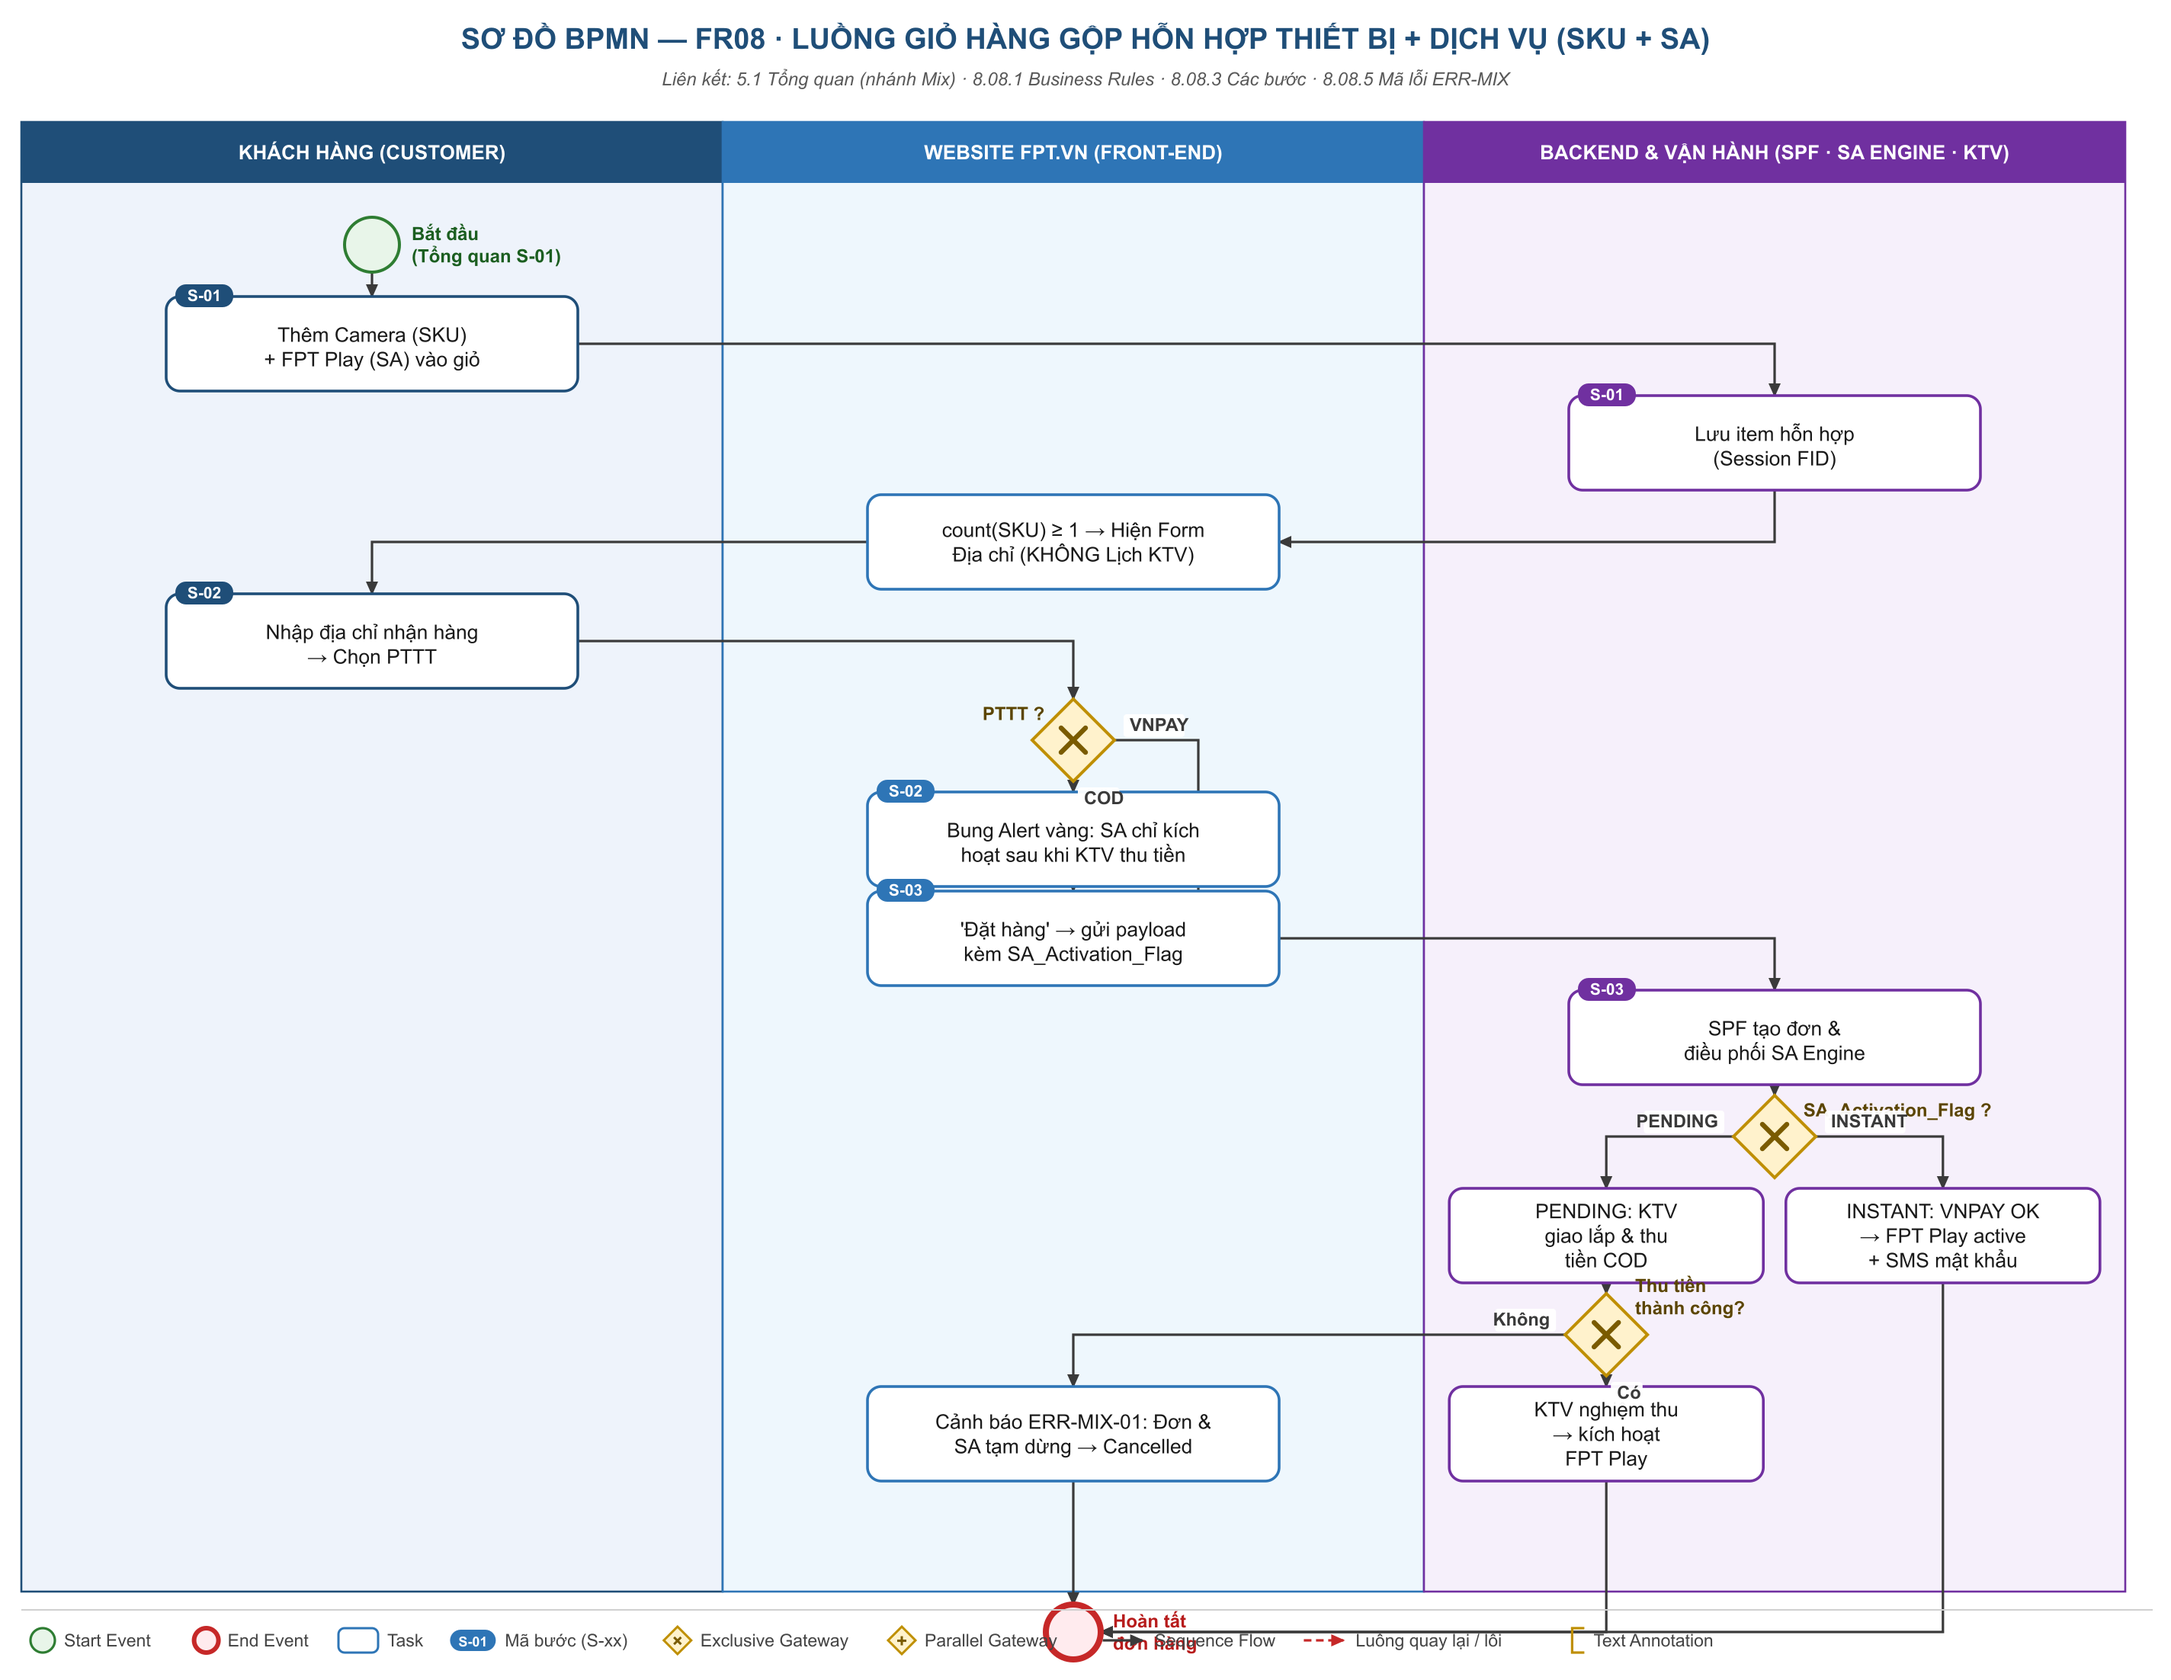
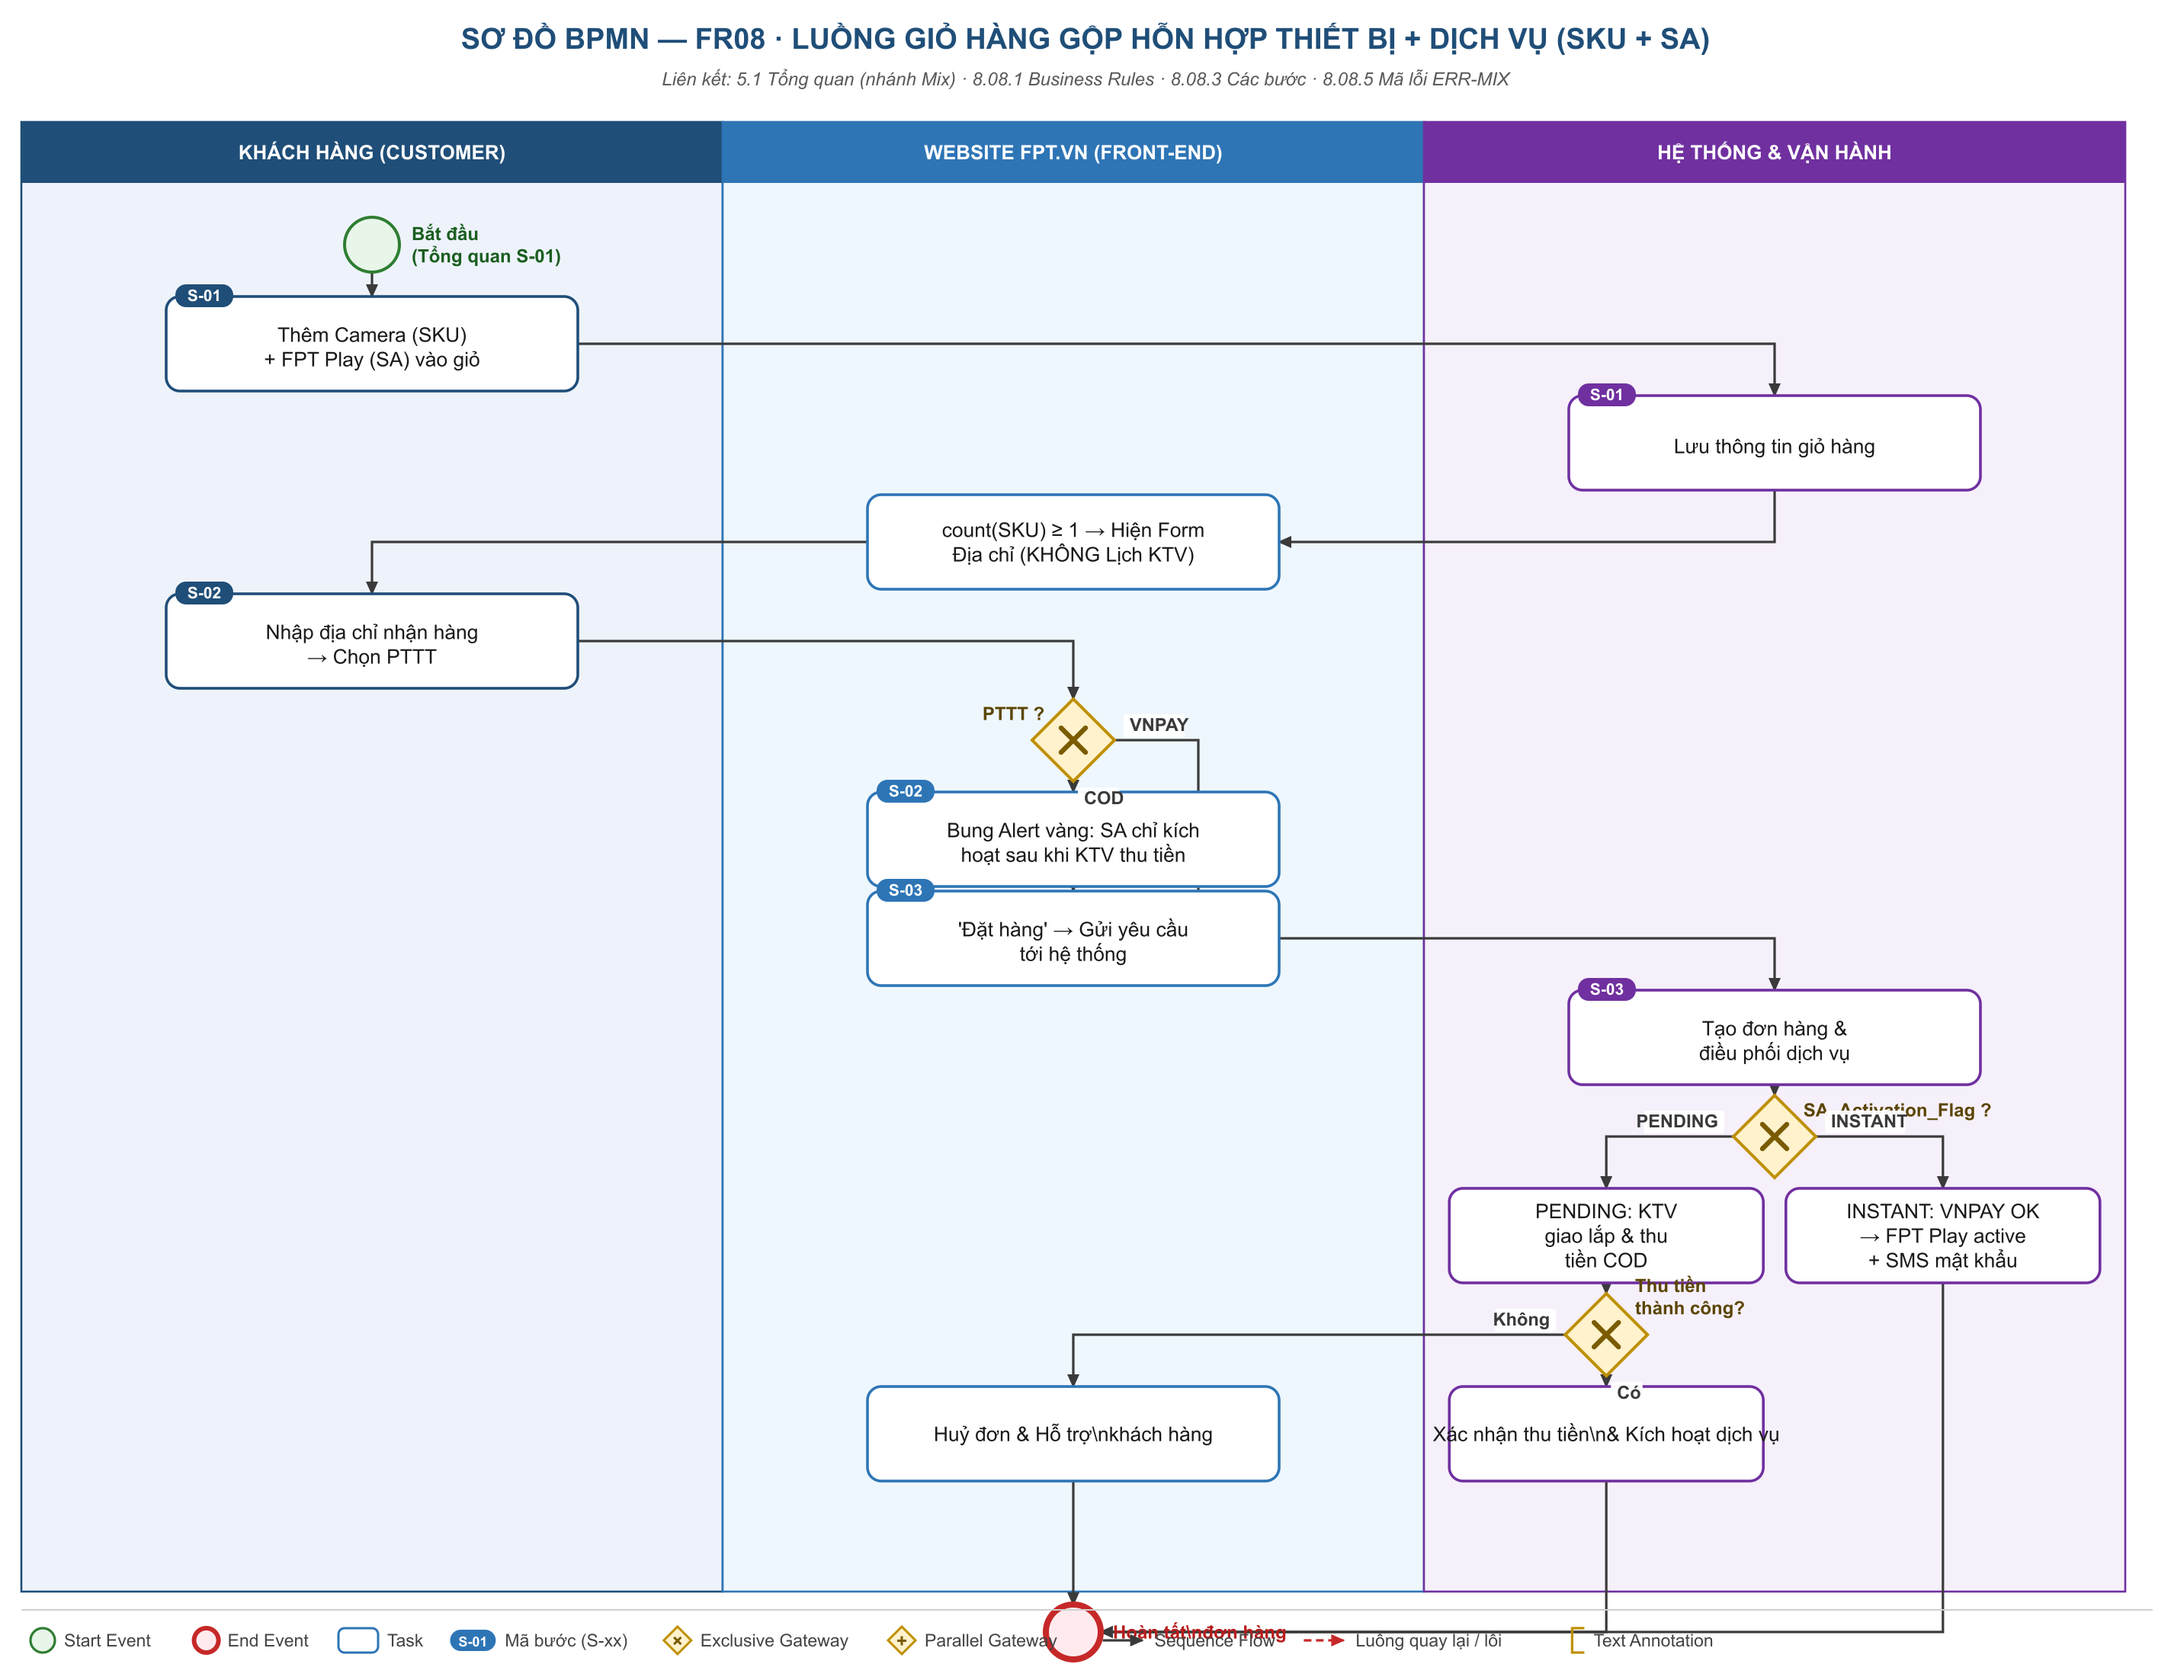
Add missing nodes b5 and f4 to fr08 and regenerate BPMN

diff --git a/diagrams/gen_prd_cart_bpmn_fixed.py b/diagrams/gen_prd_cart_bpmn_fixed.py
@@ -597,6 +597,8 @@ build("fr08",
           "b4": (2, 10, "l", "task", "PENDING: KTV\ngiao lắp & thu\ntiền COD"),
           "b3": (2, 10, "r", "task", "INSTANT: VNPAY OK\n→ FPT Play active\n+ SMS mật khẩu"),
           "g3": (2, 11, "l", "gw", "Thu tiền\nthành công?", {"lp": "tr"}),
+          "b5": (2, 12, "l", "task", "Xác nhận thu tiền\\n& Kích hoạt dịch vụ"),
+          "f4": (1, 12, "c", "task", "Huỷ đơn & Hỗ trợ\\nkhách hàng"),
           "end": (1, 14, "c", "end", "Hoàn tất\\nđơn hàng"),
       },
       [
